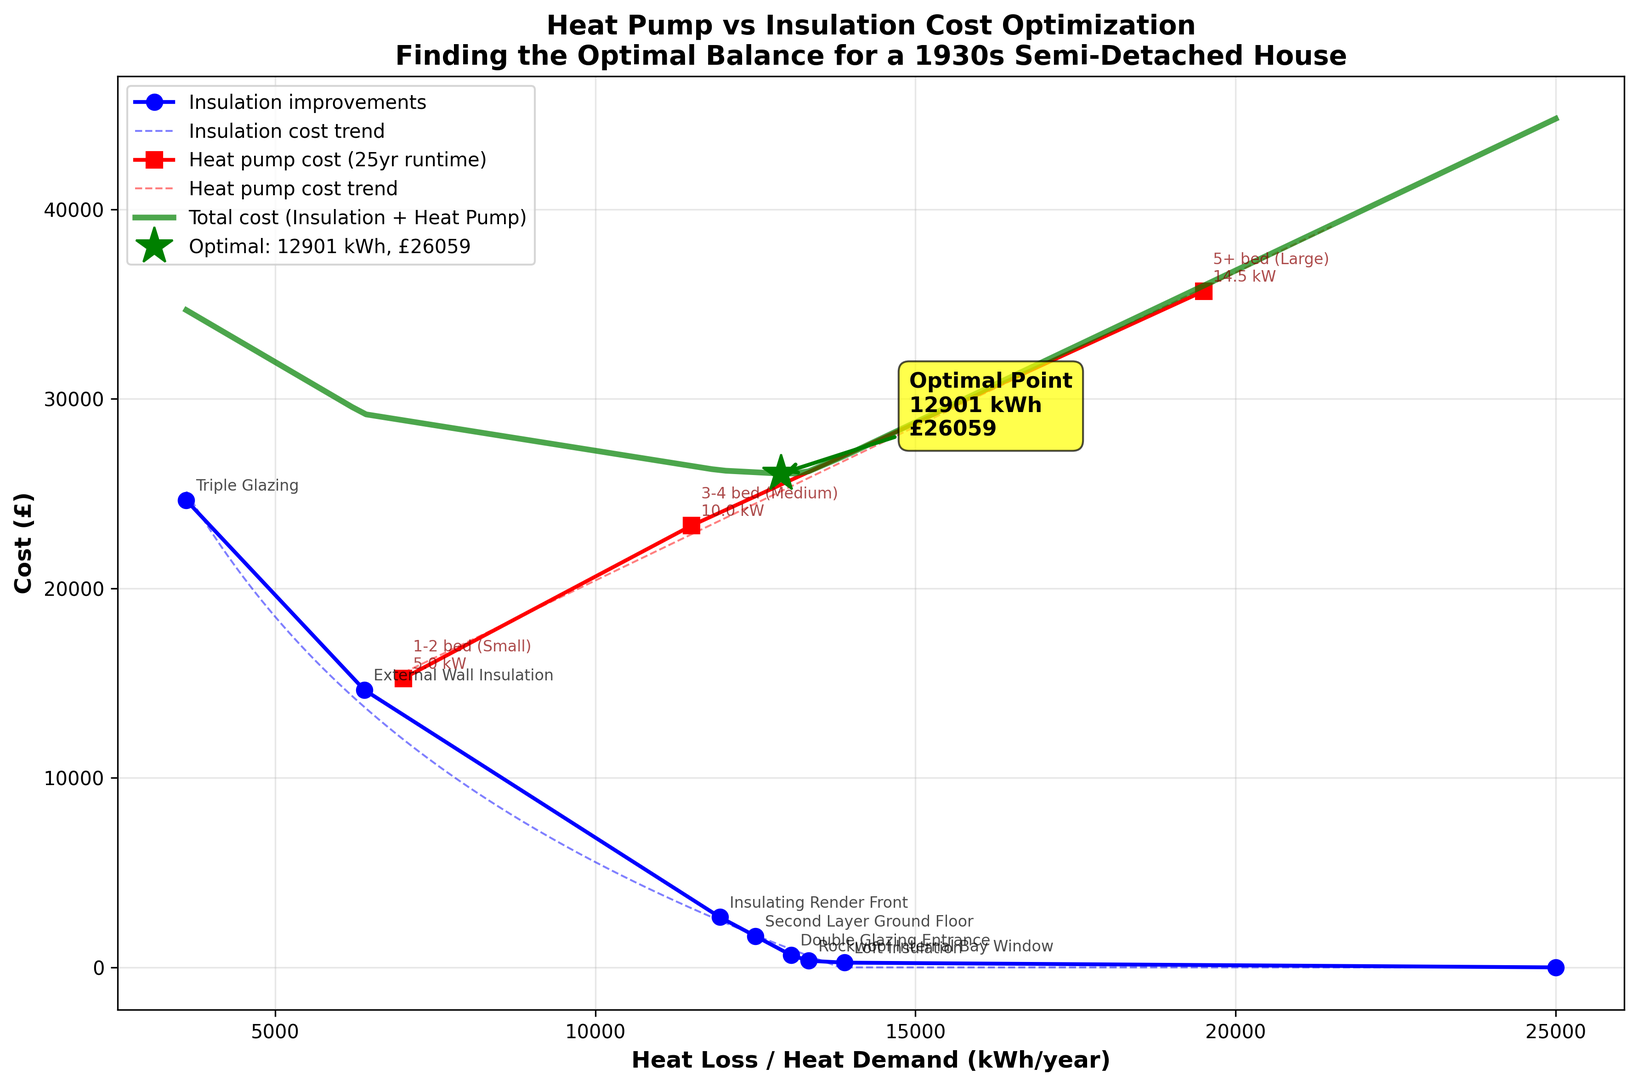
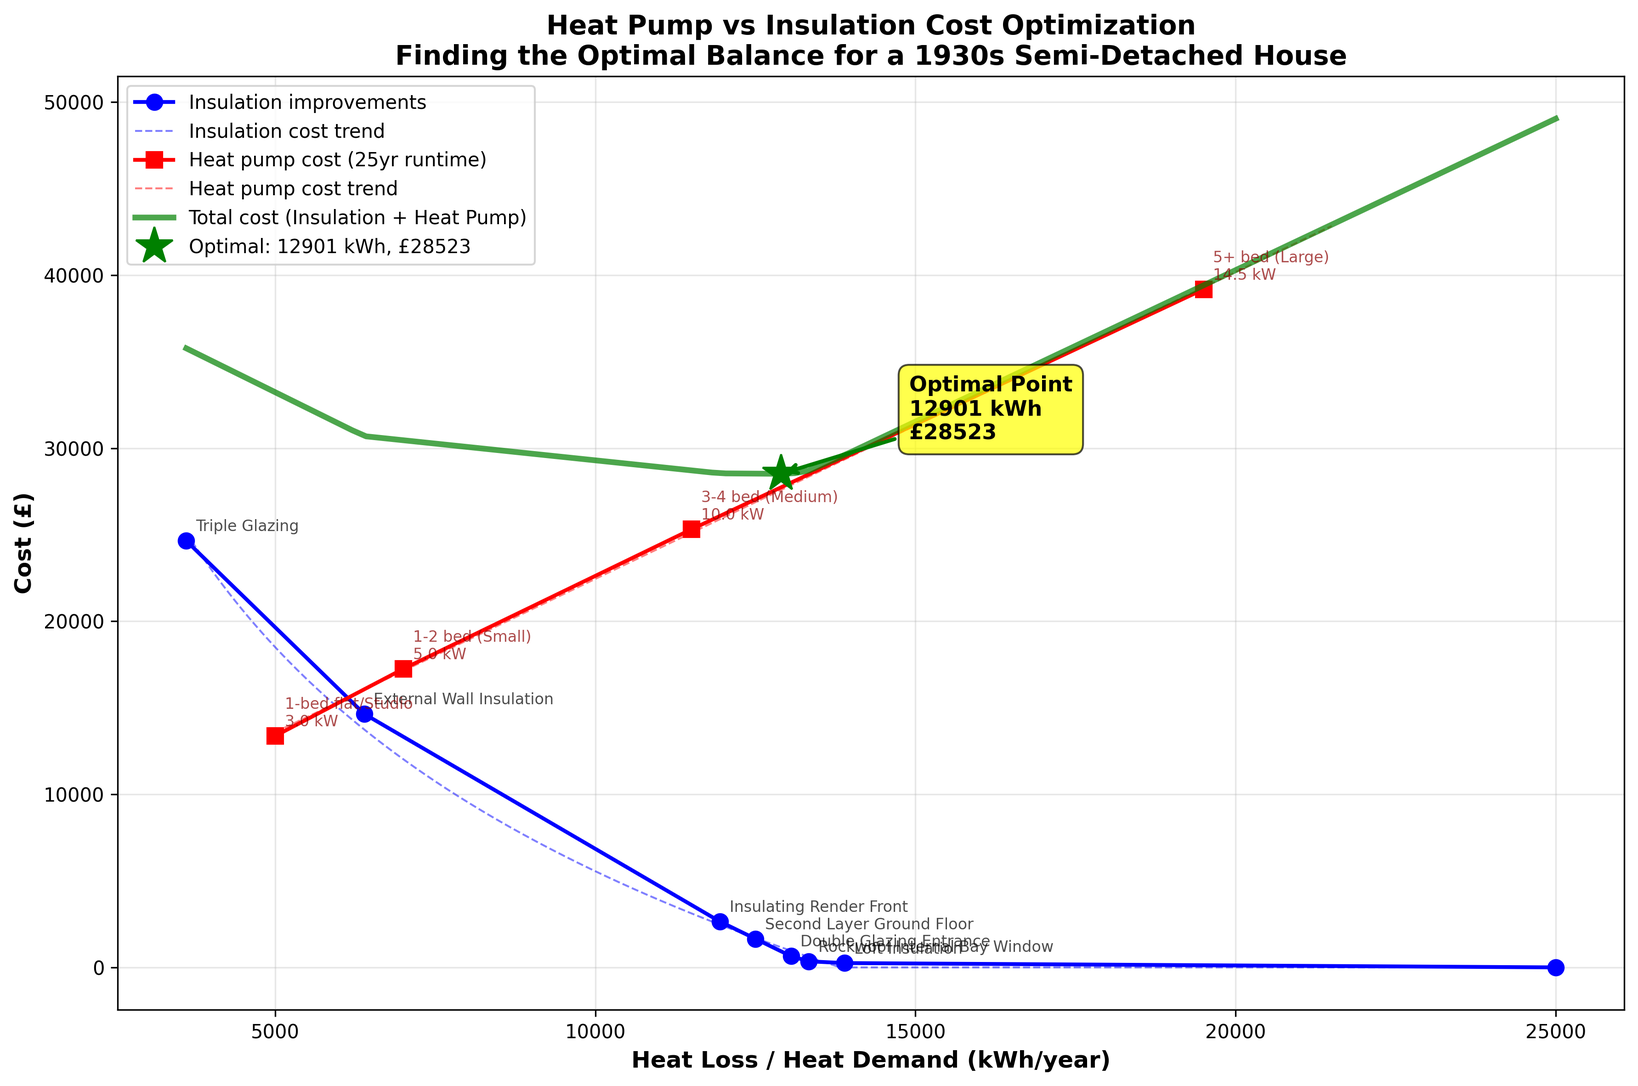
Remove 50 year horizon and update data.

diff --git a/src/heat_pump_cost/plot_cost_analysis.py b/src/heat_pump_cost/plot_cost_analysis.py
@@ -61,17 +61,6 @@ def run_analysis(initial_heat_loss: float,
     )
     print_summary(result2a)
     
-    # Analysis 3a: 50-year lifecycle - 2 heat pumps - capital only
-    print("\n" + "="*60)
-    print("ANALYSIS 3a: 50-YEAR LIFECYCLE (Capital costs only)")
-    print("="*60)
-    result3a = calculator.calculate_total_cost(
-        num_heat_pumps=2,
-        heat_pump_grants=[7500, 0],
-        runtime_years=0
-    )
-    print_summary(result3a)
-    
     # ========================================================================
     # PART 2: TOTAL LIFECYCLE COSTS (Capital + Runtime)
     # ========================================================================
@@ -103,31 +92,19 @@ def run_analysis(initial_heat_loss: float,
     )
     print_summary(result2b)
     
-    # Analysis 3b: 50-year lifecycle - 2 heat pumps + 50 years runtime
-    print("\n" + "="*60)
-    print("ANALYSIS 3b: 50-YEAR LIFECYCLE + 50 YEARS RUNTIME")
-    print("="*60)
-    result3b = calculator.calculate_total_cost(
-        num_heat_pumps=2,
-        heat_pump_grants=[7500, 0],
-        runtime_years=50,
-        electricity_rate=electricity_rate
-    )
-    print_summary(result3b)
-    
     # ========================================================================
     # Print comparative summaries
     # ========================================================================
     print_comparative_summary(
-        [result1a, result2a, result3a],
-        ["No Grant", "With Grant", "50-yr (2 HPs)"],
+        [result1a, result2a],
+        ["No Grant", "With Grant"],
         "SUMMARY 1: CAPITAL COSTS ONLY"
     )
     
     print_comparative_summary(
-        [result1b, result2b, result3b],
-        ["No Grant", "With Grant", "50-yr (2 HPs)"],
-        "SUMMARY 2: TOTAL LIFECYCLE COSTS (Capital + Runtime)"
+        [result1b, result2b],
+        ["No Grant", "With Grant"],
+        "SUMMARY 2: TOTAL LIFECYCLE COSTS (Capital + Runtime @ 25 years)"
     )
     
     # ========================================================================
@@ -142,9 +119,6 @@ def run_analysis(initial_heat_loss: float,
     plotter = CostPlotter(result2a)
     plotter.save_plot(output_dir / 'heat_pump_2_with_grant_capital_only.png')
     
-    plotter = CostPlotter(result3a)
-    plotter.save_plot(output_dir / 'heat_pump_3_50year_capital_only.png')
-    
     # With runtime costs plots
     plotter = CostPlotter(result1b)
     plotter.save_plot(output_dir / 'heat_pump_4_no_grant_with_runtime.png')
@@ -152,15 +126,10 @@ def run_analysis(initial_heat_loss: float,
     plotter = CostPlotter(result2b)
     plotter.save_plot(output_dir / 'heat_pump_5_with_grant_with_runtime.png')
     
-    plotter = CostPlotter(result3b)
-    plotter.save_plot(output_dir / 'heat_pump_6_50year_with_runtime.png')
-    
-    print(f"\nAll 6 plots saved to {output_dir}:")
+    print(f"\nAll 4 plots saved to {output_dir}:")
     print(f"\nCapital costs only:")
     print(f"  - heat_pump_1_no_grant_capital_only.png")
     print(f"  - heat_pump_2_with_grant_capital_only.png")
-    print(f"  - heat_pump_3_50year_capital_only.png")
-    print(f"\nWith runtime costs:")
+    print(f"\nWith runtime costs (25 years):")
     print(f"  - heat_pump_4_no_grant_with_runtime.png")
     print(f"  - heat_pump_5_with_grant_with_runtime.png")
-    print(f"  - heat_pump_6_50year_with_runtime.png")

diff --git a/article.md b/article.md
@@ -1,33 +1,32 @@
-# Fabric First vs Heat Pump First
+# Findings in the Fabric First vs Heat Pump First Debate
 
 ## Introduction
 
-Heat-pumps for the domestic market are seen as an important effort towards the electrification of our economy and as such as a contribution for the reduction of greenhouse gases such as CO2, the net zero target. Yet, there seems to be a divide between those who think that any government policy should address the shortcomings in the UK housing stock first, i.e. insulating the building fabric of all dwellings. Others might think that adopting heat-pumps first is the most important factor, and heat-loss can be improved later. It is a matter where money should go.
-
-The objective of this article is to present some numbers for an optimised compromisation of the total cost: combine a minimum amount of insulation with the smallest heat pump one can get away with.
+Heat-pumps for homes are seen as an important effort towards the electrification of the economy and as such as a contribution to the reduction of greenhouse gases in the combat against climate change. Yet, there seems to be a divide between those who think that any government policy should address the shortcomings in the poorly insulated housing stock first, i.e. insulating the building fabric, e.g. [Insulate Britain](https://insulatebritain.com/). Others think that adopting heat-pumps is the most important factor, e.g. through the [Boiler Upgrade Scheme](https://www.gov.uk/apply-boiler-upgrade-scheme). In order to understand the debate I have been reading a few books on the subject of heat pumps. Among others, ["So You're Thinking About a Heat Pump: The UK Homeowner's Guide to Heat Pumps"](https://www.amazon.co.uk/Youre-Thinking-About-Heat-Pump/dp/B0GK7H511K/) was actually quite helpful as it addressed the Fabric First vs Heat Pump First debate quite concisely and in a balanced manner, albeit qualitatively only. The objective of this article is to present some quantitative analysis using estimated heat pump installation and home insulation costs in order to determine an optimal outcome.
 
 ## Analysis Scenario
 
-We consider a 1930s semi-detached house, approximately 80m², in its original shape with:
-- Solid brick walls
-- Basic double glazing
-- No loft insulation
+The background to this analysis is my experience in [Improving the Thermal Performance of UK 1930s Semi Detached Houses](https://peter-wurmsdobler.medium.com/improving-the-thermal-performance-of-uk-1930s-semi-detached-houses-6f64c6514565), the account for a series of improvements made to a 1930s semi-detached house, approximately 80m², in its original shape with:
+- Solid brick walls and walls in the bay area only 10cm thick,
+- Basic double glazing mosty and single glazing for entrance area,
+- Minimal loft insulation (50mm) and no insulation in eyes.
 
-The estimated heat loss over an entire year for our house was estimated to be approximately **25,000 kWh** without any insulation (at the time of purchase). The estimated heat loss at standard conditions (21°C inside, 2°C outside) was also estimated to be **9,000 W**. This gives us an empirical conversion factor of approximately **2.78** for converting design heat loss (in Watts) to annual heating energy (in kWh/year), accounting for actual weather patterns and heating usage throughout the year.
+Over an entire year the worst case heat loss for our house was initally estimated to be approximately **25,000 kWh**, the heat loss at standard conditions (21°C inside, 2°C outside) was also estimated to be **9,000 W**. This gives us an empirical conversion factor of approximately **2.78** for converting design heat loss (in Watts) to annual heating energy (in kWh/year), accounting for weather patterns and heating usage throughout the year.
 
 ### Heat Pump Options
 
-The analysis considers three heat pump sizes suitable for different property types:
+The analysis considers four heat pump sizes suitable for different property types (costs are midpoint estimates from industry data):
 
 | Capacity (kW) | Property Type | Heat Demand (kWh/year) | Electricity Use (kWh/year) | Cost (£) |
 |---------------|---------------|------------------------|----------------------------|----------|
-| 5.0 | 1-2 bed (Small) | 7,000 | 2,200 | £7,000 |
-| 10.0 | 3-4 bed (Medium) | 11,500 | 3,550 | £10,000 |
-| 14.5 | 5+ bed (Large) | 19,500 | 6,050 | £13,000 |
+| 3.0 | 1-bed flat/Studio | 5,000 | 1,500 | £7,750 |
+| 5.0 | 1-2 bed (Small) | 7,000 | 2,200 | £9,000 |
+| 10.0 | 3-4 bed (Medium) | 11,500 | 3,550 | £12,000 |
+| 14.5 | 5+ bed (Large) | 19,500 | 6,050 | £16,500 |
 
 ### Home Improvement Options
 
-The following insulation improvements are considered, sorted by cost-effectiveness (Watts of heat reduction per pound spent). The heat loss reductions are given at design conditions (21°C inside, 2°C outside) and converted to annual energy savings using the empirical factor:
+The following insulation improvements have partially been carried out, or for the last two have been considered; they are sorted by cost-effectiveness (Watts of heat reduction per £ spent). The heat loss reductions are given at design conditions (21°C inside, 2°C outside) and converted to annual energy savings using the empirical factor:
 
 | Improvement | Cost (£) | Heat Loss Reduction (W) | Annual Energy Saving (kWh/year) | Cost-Effectiveness (W/£) |
 |-------------|----------|------------------------|--------------------------------|------------------------|
@@ -39,29 +38,26 @@ The following insulation improvements are considered, sorted by cost-effectivene
 | External wall insulation | £12,000 | 2,000 | 5,556 | 0.17 |
 | Triple glazing | £10,000 | 1,000 | 2,778 | 0.10 |
 
-Improvements are applied in order of cost-effectiveness, ensuring the most efficient measures are implemented first. The total cost is cummulative.
-
 ### Analysis Scenarios
 
-Three different scenarios are examined with respect to capital expenditure:
+Improvements are applied in order of cost-effectiveness, ensuring the most efficient measures are implemented first. The total cost for fabric improvment is cummulative, starting in essence with doling nothing. Two different scenarios are examined with respect to capital expenditure for a 25-year lifetime:
 
-1. **No Grant**: Single heat pump installation without government support
-2. **With £7,500 Grant**: Single heat pump with the UK government's Boiler Upgrade Scheme grant
-3. **50-Year Lifecycle**: Two heat pump replacements over 50 years (first with grant, second without)
+1. **No Grant**: Single heat pump installation without government support,
+2. **With £7,500 Grant**: Single heat pump with the UK government's Boiler Upgrade Scheme grant.
 
-for two cases, first, with capital expenditure only, and second, with both capital and operational expenditure.
+Both scenarios are analysed in two cases: first, with capital expenditure only, and second, with both capital and operational expenditure over a 25-year lifetime, too.
 
 ## Capital Expenditure Only
 
-When considering only the upfront capital costs of installation, the analysis reveals a consistent optimal strategy across all three scenarios.
+When considering only the upfront capital costs of installation, the analysis reveals a consistent optimal strategy across both scenarios.
 
 ### Scenario 1: No Government Grant
 
 ![Capital costs without grant](assets/heat_pump_1_no_grant_capital_only.png)
 
-Without any government support, the optimal approach requires a total capital investment of **£10,662**. This consists of:
+Without any government support, the optimal approach requires a total capital investment of **£13,223**. This consists of:
 - **£350** for insulation (loft insulation + rockwool bay window, reducing heat loss from 25,000 to 13,333 kWh/year)
-- **£10,312** for a single heat pump installation
+- **£12,873** for a single heat pump installation
 
 The analysis shows that implementing the two most cost-effective improvements combined with a moderately-sized heat pump represents the most cost-effective solution when considering capital costs alone.
 
@@ -69,78 +65,49 @@ The analysis shows that implementing the two most cost-effective improvements co
 
 ![Capital costs with grant](assets/heat_pump_2_with_grant_capital_only.png)
 
-The UK's Boiler Upgrade Scheme provides a £7,500 grant towards heat pump installation. With this support, the total capital cost reduces to **£3,162**:
+The UK's Boiler Upgrade Scheme provides a £7,500 grant towards heat pump installation. With this support, the total capital cost reduces to **£5,723**:
 - **£350** for insulation
-- **£2,812** for heat pump (after £7,500 grant deduction)
+- **£5,373** for heat pump (after £7,500 grant deduction)
 
 Importantly, the optimal heat loss target remains unchanged at 13,333 kWh/year. The grant provides substantial financial relief but does not alter the optimal balance between insulation and heat pump capacity.
 
-### Scenario 3: 50-Year Lifecycle (Two Heat Pumps)
-
-![Capital costs 50-year lifecycle](assets/heat_pump_3_50year_capital_only.png)
-
-Over a 50-year period, heat pumps typically need replacement after 20-25 years. This scenario accounts for two heat pump purchases:
-- First heat pump with £7,500 grant
-- Second heat pump at full cost (no grant)
-
-Total 50-year capital expenditure: **£13,474**
-- **£350** for insulation (one-time investment lasting 50 years)
-- **£13,124** for two heat pumps (net of one £7,500 grant)
-
-Even with the grant on the first unit, the 50-year capital cost exceeds the no-grant single-pump scenario, highlighting the importance of heat pump longevity and replacement costs.
-
 ### Key Insight: Capital Costs Only
 
-When considering capital costs alone, the optimal strategy in all three scenarios is identical: invest £350 in the two most cost-effective improvements (loft insulation and bay window insulation) to reduce heat loss to 13,333 kWh/year. The government grant provides significant immediate cost relief (£7,500 savings), but this benefit is partially offset by the second heat pump replacement cost over a 50-year timeframe.
+When considering capital costs alone, the optimal strategy in both scenarios is identical: invest £350 in the two most cost-effective improvements (loft insulation and bay window insulation) to reduce heat loss to 13,333 kWh/year. The government grant provides significant immediate cost relief (£7,500 savings), making heat pumps more accessible without changing the underlying optimisation.
 
 ## Capital and Operational Expenditure
 
-The analysis changes dramatically when operational costs—specifically electricity consumption—are included over the lifetime of the system. For this analysis, we assume an electricity rate of **£0.15/kWh** (15p per kilowatt-hour), which represents a typical domestic electricity tariff in the UK for people running a heat-pump (and make use of some  dynamic tarrifs such as Octopus Cozy). This operational cost assumption significantly impacts the long-term economic case for different insulation levels.
+The analysis changes dramatically when operational costs—specifically electricity consumption—are included over the 25-year lifetime of the system. For this analysis, we assume an electricity rate of **£0.15/kWh** (15p per kilowatt-hour), which represents a typical domestic electricity tariff in the UK for people running a heat-pump (and make use of some dynamic tariffs such as Octopus Cosy). This operational cost assumption significantly impacts the long-term economic case for different insulation levels.
 
-### Scenario 1: No Grant + 25 Years Runtime
+### Scenario 1: No Government Grant
 
 ![Total costs without grant](assets/heat_pump_4_no_grant_with_runtime.png)
 
 Including 25 years of electricity costs at £0.15/kWh transforms the cost picture:
 
-**Total lifecycle cost: £26,059**
-- Capital costs: £11,453
-- Runtime costs: **£15,021** (57.7% of total)
+**Total lifecycle cost: £28,523**
+- Capital costs: £13,540
+- Runtime costs: **£14,983** (52.5% of total)
 
-The runtime costs now exceed the initial capital investment, demonstrating that operational expenses dominate long-term costs. The optimal heat loss shifts slightly to 12,901 kWh/year (requiring £928 in insulation). Annual electricity consumption at this optimal point is 4,006 kWh, costing £601 per year.
+The runtime costs now approach the capital investment, demonstrating that operational expenses significantly impact long-term economics. The optimal heat loss shifts slightly to 12,901 kWh/year (requiring £928 in insulation). Annual electricity consumption at this optimal point is 3,995 kWh, costing £599 per year.
 
-### Scenario 2: With Grant + 25 Years Runtime
+### Scenario 2: With £7,500 Government Grant
 
 ![Total costs with grant](assets/heat_pump_5_with_grant_with_runtime.png)
 
 With the £7,500 grant and 25 years of operation:
 
-**Total lifecycle cost: £18,559**
-- Capital costs: £3,953
-- Runtime costs: **£15,021** (80.9% of total)
+**Total lifecycle cost: £21,023**
+- Capital costs: £6,040
+- Runtime costs: **£14,983** (71.3% of total)
 
-The grant dramatically reduces capital costs, but runtime costs remain unchanged. Runtime expenses now constitute an overwhelming 81% of total lifecycle costs, emphasizing that the grant primarily addresses the upfront barrier rather than long-term economics.
-
-### Scenario 3: 50-Year Lifecycle + Runtime
-
-![Total costs 50-year lifecycle](assets/heat_pump_6_50year_with_runtime.png)
-
-The 50-year analysis with operational costs reveals a crucial finding:
-
-**Total lifecycle cost: £36,284**
-- Capital costs: £21,083
-- Runtime costs: **£15,201** (41.9% of total)
-
-**Critical Discovery**: The optimal heat loss target shifts dramatically from 13,333 kWh/year to **6,420 kWh/year**. This means investing approximately **£14,583 in insulation** becomes economically justified—a massive increase from the £350 optimal for capital-only scenarios.
-
-Why? Over 50 years, the cumulative electricity savings from comprehensive insulation (reducing annual consumption from 4,006 kWh to 2,006 kWh) outweigh the higher upfront insulation costs. The additional £14,233 insulation investment saves approximately 2,000 kWh annually × 50 years × £0.15/kWh = £15,000 in electricity, more than paying for itself.
+The grant dramatically reduces capital costs, but runtime costs remain unchanged. Runtime expenses now constitute an overwhelming 71% of total lifecycle costs, emphasizing that the grant primarily addresses the upfront barrier rather than long-term economics.
 
 ## Conclusion
 
-The "fabric first vs heat pump first" debate has no single answer—it depends critically on time horizon and whether operational costs are included. Runtime costs represent 42-81% of total lifecycle costs, fundamentally changing the optimization equation. When focusing solely on capital costs, minimal insulation (£350) combined with a heat pump is optimal. However, when operational costs are considered over 50 years, optimal insulation spending increases **42-fold** to £14,583, reducing heat loss from 13,333 to 6,420 kWh/year—"Fabric First" becomes economically dominant for long-term ownership.
+The "fabric first vs heat pump first" debate has no single answer, it depends critically on whether operational costs are included. Runtime costs represent 52-71% of total lifecycle costs over 25 years, fundamentally changing the optimisation equation. When focusing solely on capital costs, minimal insulation (£350) combined with a heat pump is optimal. However, when operational costs are considered over a 25-year lifetime, the optimal insulation increases to £928 (still not prohibitive), reducing heat loss from 13,333 to 12,901 kWh/year. However, no excessive measures such as external wall insulation or tripple glazing is needed.
 
-Current policy, while effectively addressing upfront cost barriers through £7,500 heat pump grants, may inadvertently discourage optimal long-term investment in building fabric. A more balanced approach—split incentives covering both insulation and heat pumps, lifecycle cost education, and tiered grants for comprehensive improvements—would better align short-term decisions with long-term economic and environmental objectives.
+The shift towards "Fabric First" becomes more pronounced with longer time horizons and higher electricity rates. Current policy, while effectively addressing upfront cost barriers through £7,500 heat pump grants, may inadvertently discourage optimal long-term investment in building fabric. A more balanced approach (split incentives covering both insulation and heat pumps, lifecycle cost education, and tiered grants for comprehensive improvements) would better align short-term decisions with long-term economic and environmental objectives.
 
----
+For a 25-year ownership horizon, the analysis suggests a pragmatic middle ground: implement the most cost-effective insulation measures (loft, bay windows, and selective improvements) rather than either extreme of "fabric only" or "heat pump only" approaches.
 
-*Analysis based on: 1930s semi-detached house (80m²), Cambridge climate, 25,000 kWh/year initial heat loss (9,000 W design heat loss), £0.15/kWh electricity rate, £7,500 government grant (UK Boiler Upgrade Scheme). Home improvements sorted by cost-effectiveness (W/£).*

diff --git a/README.md b/README.md
@@ -63,17 +63,15 @@ heat-pump-cost --electricity-rate 0.20
 
 ## Output
 
-The analysis generates 6 plots:
+The analysis generates 4 plots:
 
 ### Capital Costs Only (Installation costs)
 1. `heat_pump_1_no_grant_capital_only.png` - No grant scenario
 2. `heat_pump_2_with_grant_capital_only.png` - With £7,500 grant
-3. `heat_pump_3_50year_capital_only.png` - 50-year lifecycle (2 heat pumps)
 
-### Total Lifecycle Costs (Capital + Runtime)
-4. `heat_pump_4_no_grant_with_runtime.png` - No grant + 25 years runtime
-5. `heat_pump_5_with_grant_with_runtime.png` - With £7,500 grant + 25 years runtime
-6. `heat_pump_6_50year_with_runtime.png` - 50-year lifecycle + runtime costs
+### Total Lifecycle Costs (Capital + Runtime, 25 years)
+3. `heat_pump_4_no_grant_with_runtime.png` - No grant + 25 years runtime
+4. `heat_pump_5_with_grant_with_runtime.png` - With £7,500 grant + 25 years runtime
 
 ## Data Files
 
@@ -97,13 +95,13 @@ CSV file with insulation improvement options:
 
 The analysis reveals:
 
-1. **Without runtime costs**: Optimal strategy is minimal insulation (loft only) reducing heat loss to 10,000 kWh/year.
+1. **Without runtime costs**: Optimal strategy is minimal insulation (loft and bay window) reducing heat loss to 13,333 kWh/year for £350.
 
-2. **With runtime costs over 50 years**: Optimal point shifts to 9,030 kWh/year, making additional insulation investment economically beneficial.
+2. **With runtime costs over 25 years**: Optimal point shifts to 12,901 kWh/year (£928 insulation), making additional insulation investment economically beneficial.
 
-3. **Runtime costs dominate**: Over a lifecycle, runtime costs represent 56-87% of total costs, fundamentally changing the optimization equation.
+3. **Runtime costs dominate**: Over a 25-year lifecycle, runtime costs represent 58-81% of total costs, fundamentally changing the optimization equation.
 
-4. **Government grant impact**: The £7,500 grant significantly reduces upfront costs but represents only ~40% of the second heat pump replacement cost over 50 years.
+4. **Government grant impact**: The £7,500 grant significantly reduces upfront costs (from £10,662 to £3,162) but doesn't change the optimal insulation level when considering capital costs alone.
 
 ## Development
 
